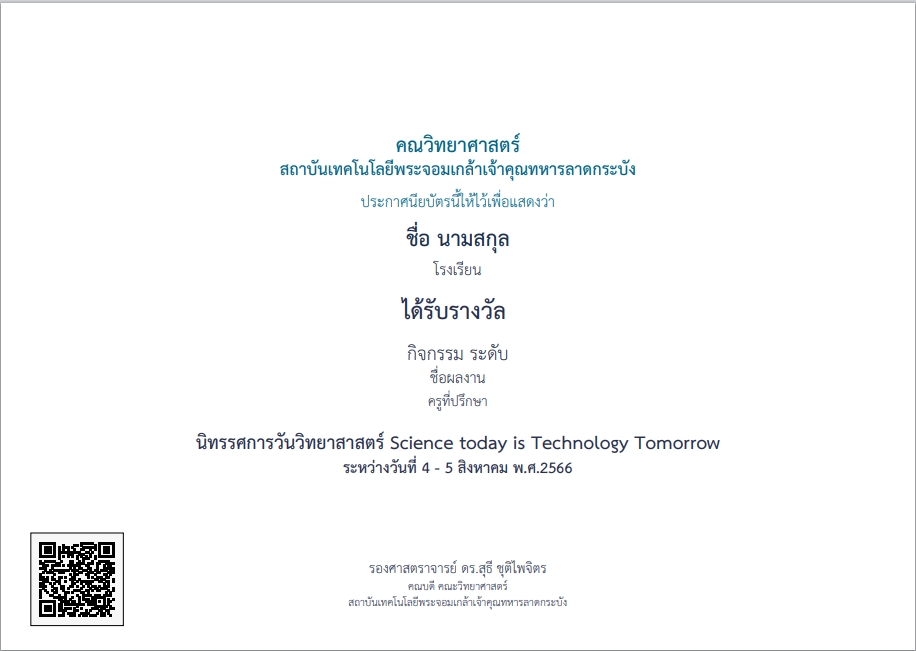
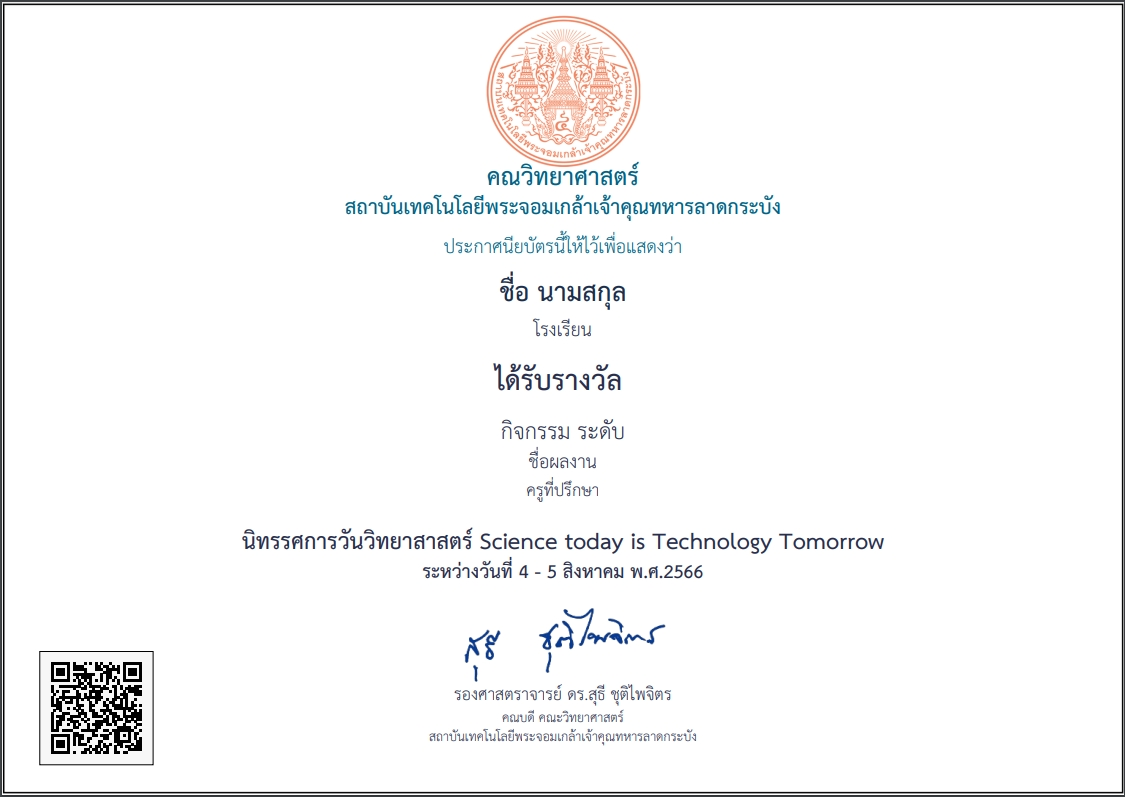
แก้ไฟล์ 3 และเปลี่ยนรูปตัวอย่าง

diff --git a/backend/pages/gencer/certificate-003.php b/backend/pages/gencer/certificate-003.php
@@ -18,30 +18,30 @@
         $pdf->setImageScale(PDF_IMAGE_SCALE_RATIO);
         $i++;
         // ข้อมูล
-        $bg = "non-bg.png";
-        $name = "นายจามร เพ็งสวย";
-        $school = "โรงเรียน KMITL";
-        $award = "ได้รับรางวัล ชนะเลิศอันดับที่ ๑";
-        $activity = "การแข่งขันตอบปัญหาความรู้ทั่วไปทางวิทยาศาสตร์ ภาษาไทย";
+        $bg = $_POST['bg'];
+        $name = "ชื่อ นามสกุล";
+        $school = "โรงเรียน";
+        $team = "ทีม " . "";
+        $award = "ได้รับรางวัล ";
+        $activity = "การแข่งขัน ";
         $level = "";
         $date_at = datethaifull(date("Y-m-d"));
         $project = "";
         $teacher = "";
         $event = "นิทรรศการวันวิทยาสาสตร์ Science today is Technology Tomorrow";
         $event_date = "ระหว่างวันที่ 4 - 5 สิงหาคม พ.ศ.2566";
-        $ca = "su.png";
-        $ca_name = "รองศาสตราจารย์ ดร.สุธี ชุติไพจิตร";
-        $ca_position = "คณบดี คณะวิทยาศาสตร์";
-        $ca_position2 = "สถาบันเทคโนโลยีพระจอมเกล้าเจ้าคุณทหารลาดกระบัง";
-
+        $ca = $_POST['ca'];
+        $ca_name = $_POST['ca_name'];
+        $ca_position = $_POST['ca_position'];
+        $ca_position2 = $_POST['ca_position2'];
 
 
         $pdf->AddPage();
         $pdf->setAutoPageBreak(false, 0);
         // พื้นหลัง
-        $pdf->Image($_SERVER['DOCUMENT_ROOT'] . 'project/backend/images/bg/' . $bg, 0, 0, 0, 210, '', '', '', false, 150, '', false, false, 0);
+        $pdf->Image($_SERVER['DOCUMENT_ROOT'] . $bg, 0, 0, 0, 210, '', '', '', false, 150, '', false, false, 0);
         // ลายเซ็นต์
-        $pdf->Image($_SERVER['DOCUMENT_ROOT'] . 'project/backend/images/ca/' . $ca, 110, 142, 0, 50, '', '', '', false, 300, '', false, false, 0);
+        $pdf->Image($_SERVER['DOCUMENT_ROOT'] . $ca, 110, 142, 0, 50, '', '', '', false, 300, '', false, false, 0);
         // หัวเรื่อง
         $pdf->setFont('thsarabun', 'B');
         $pdf->setTextColor(0, 98, 133);
